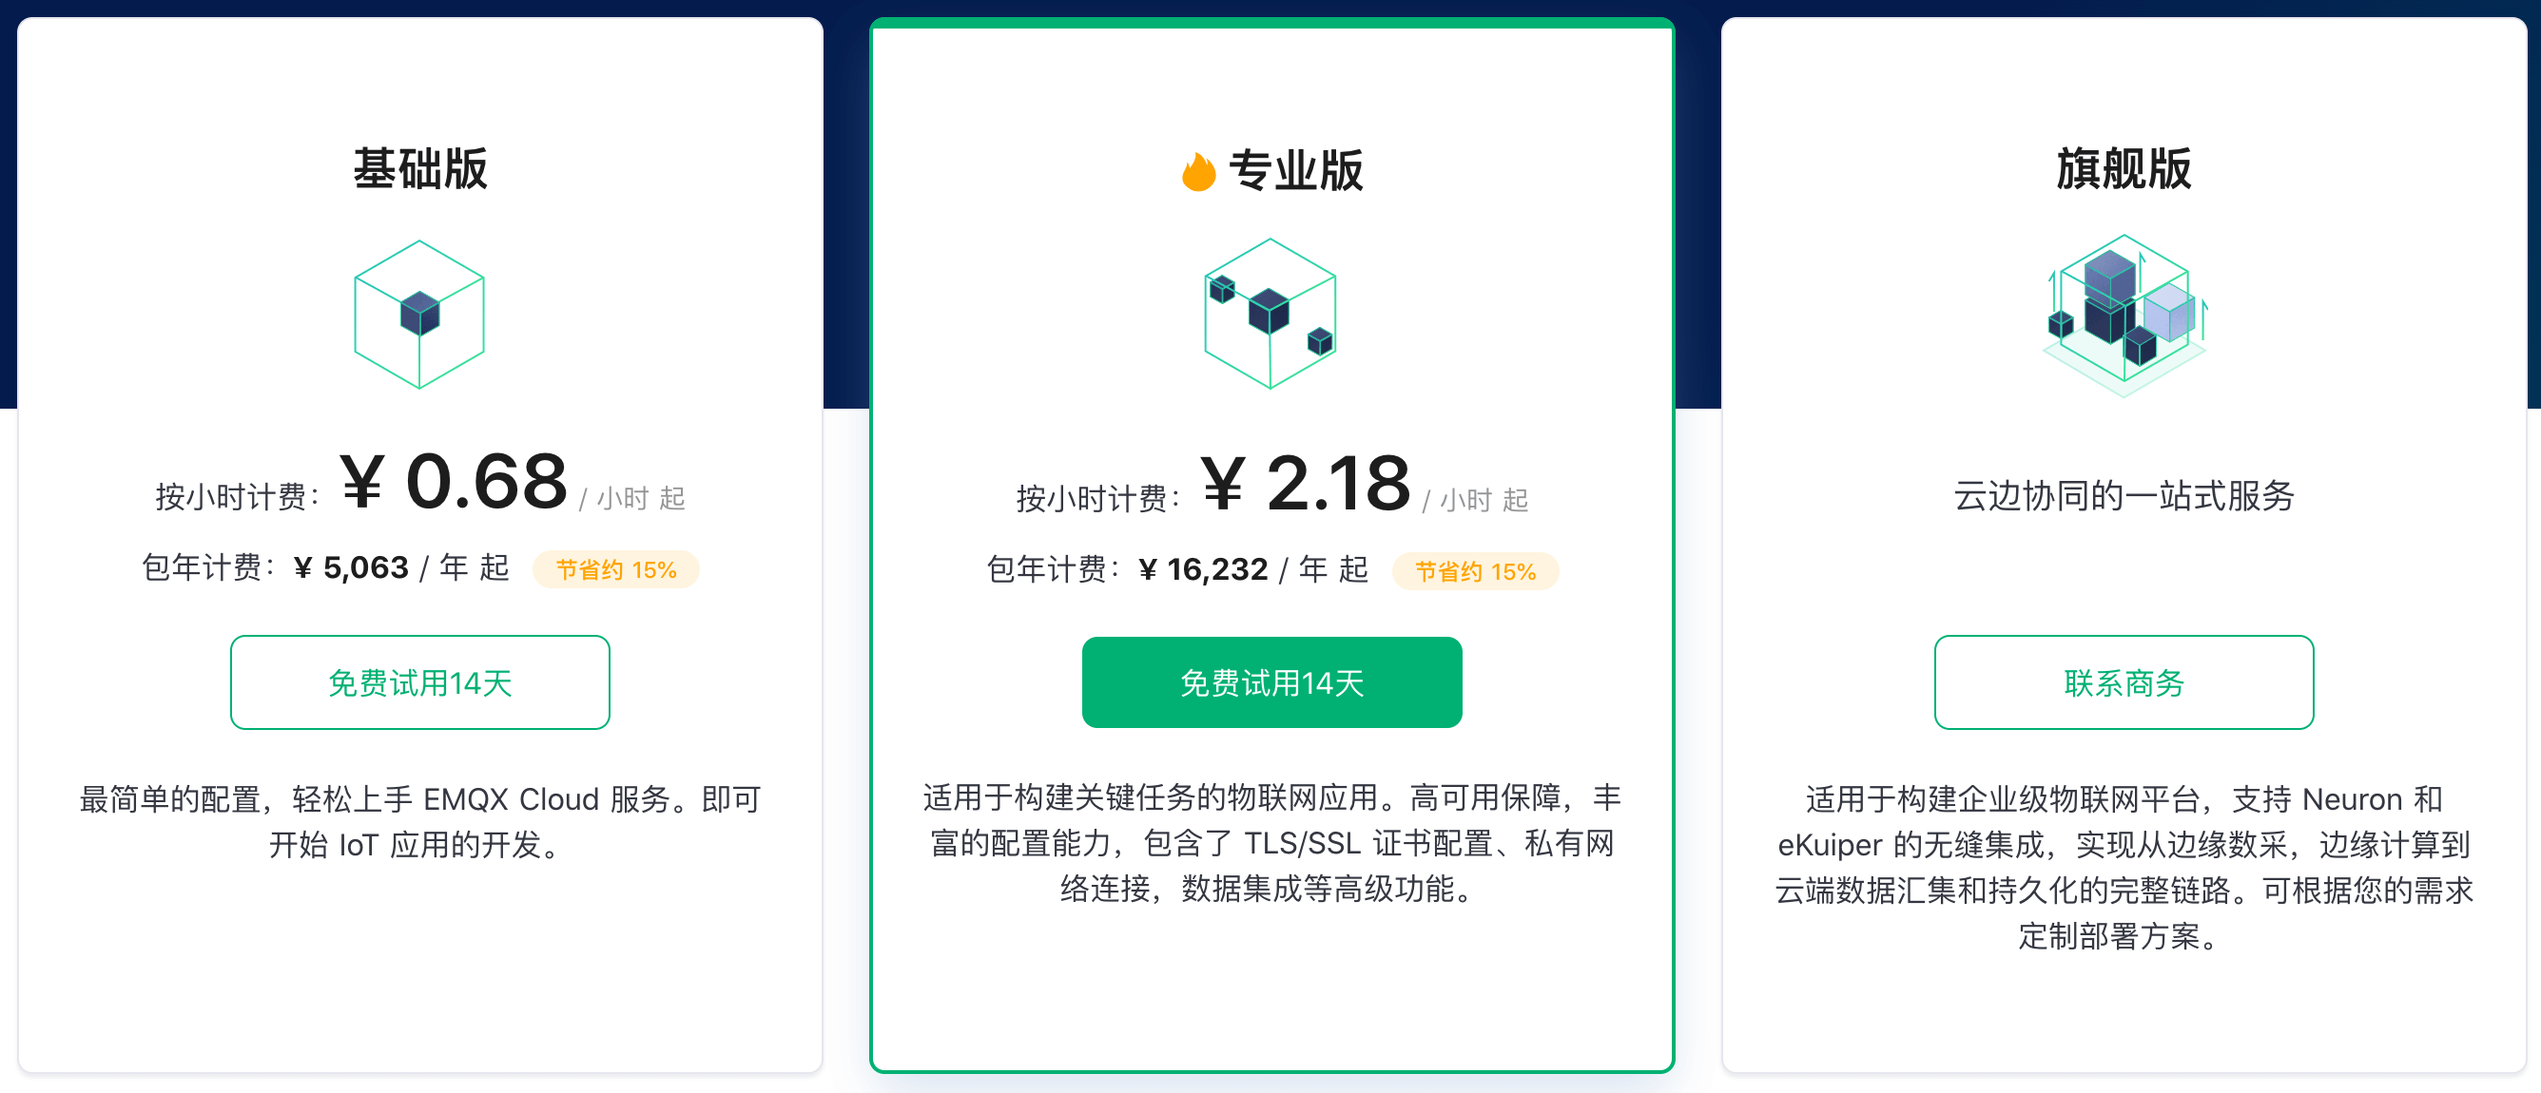
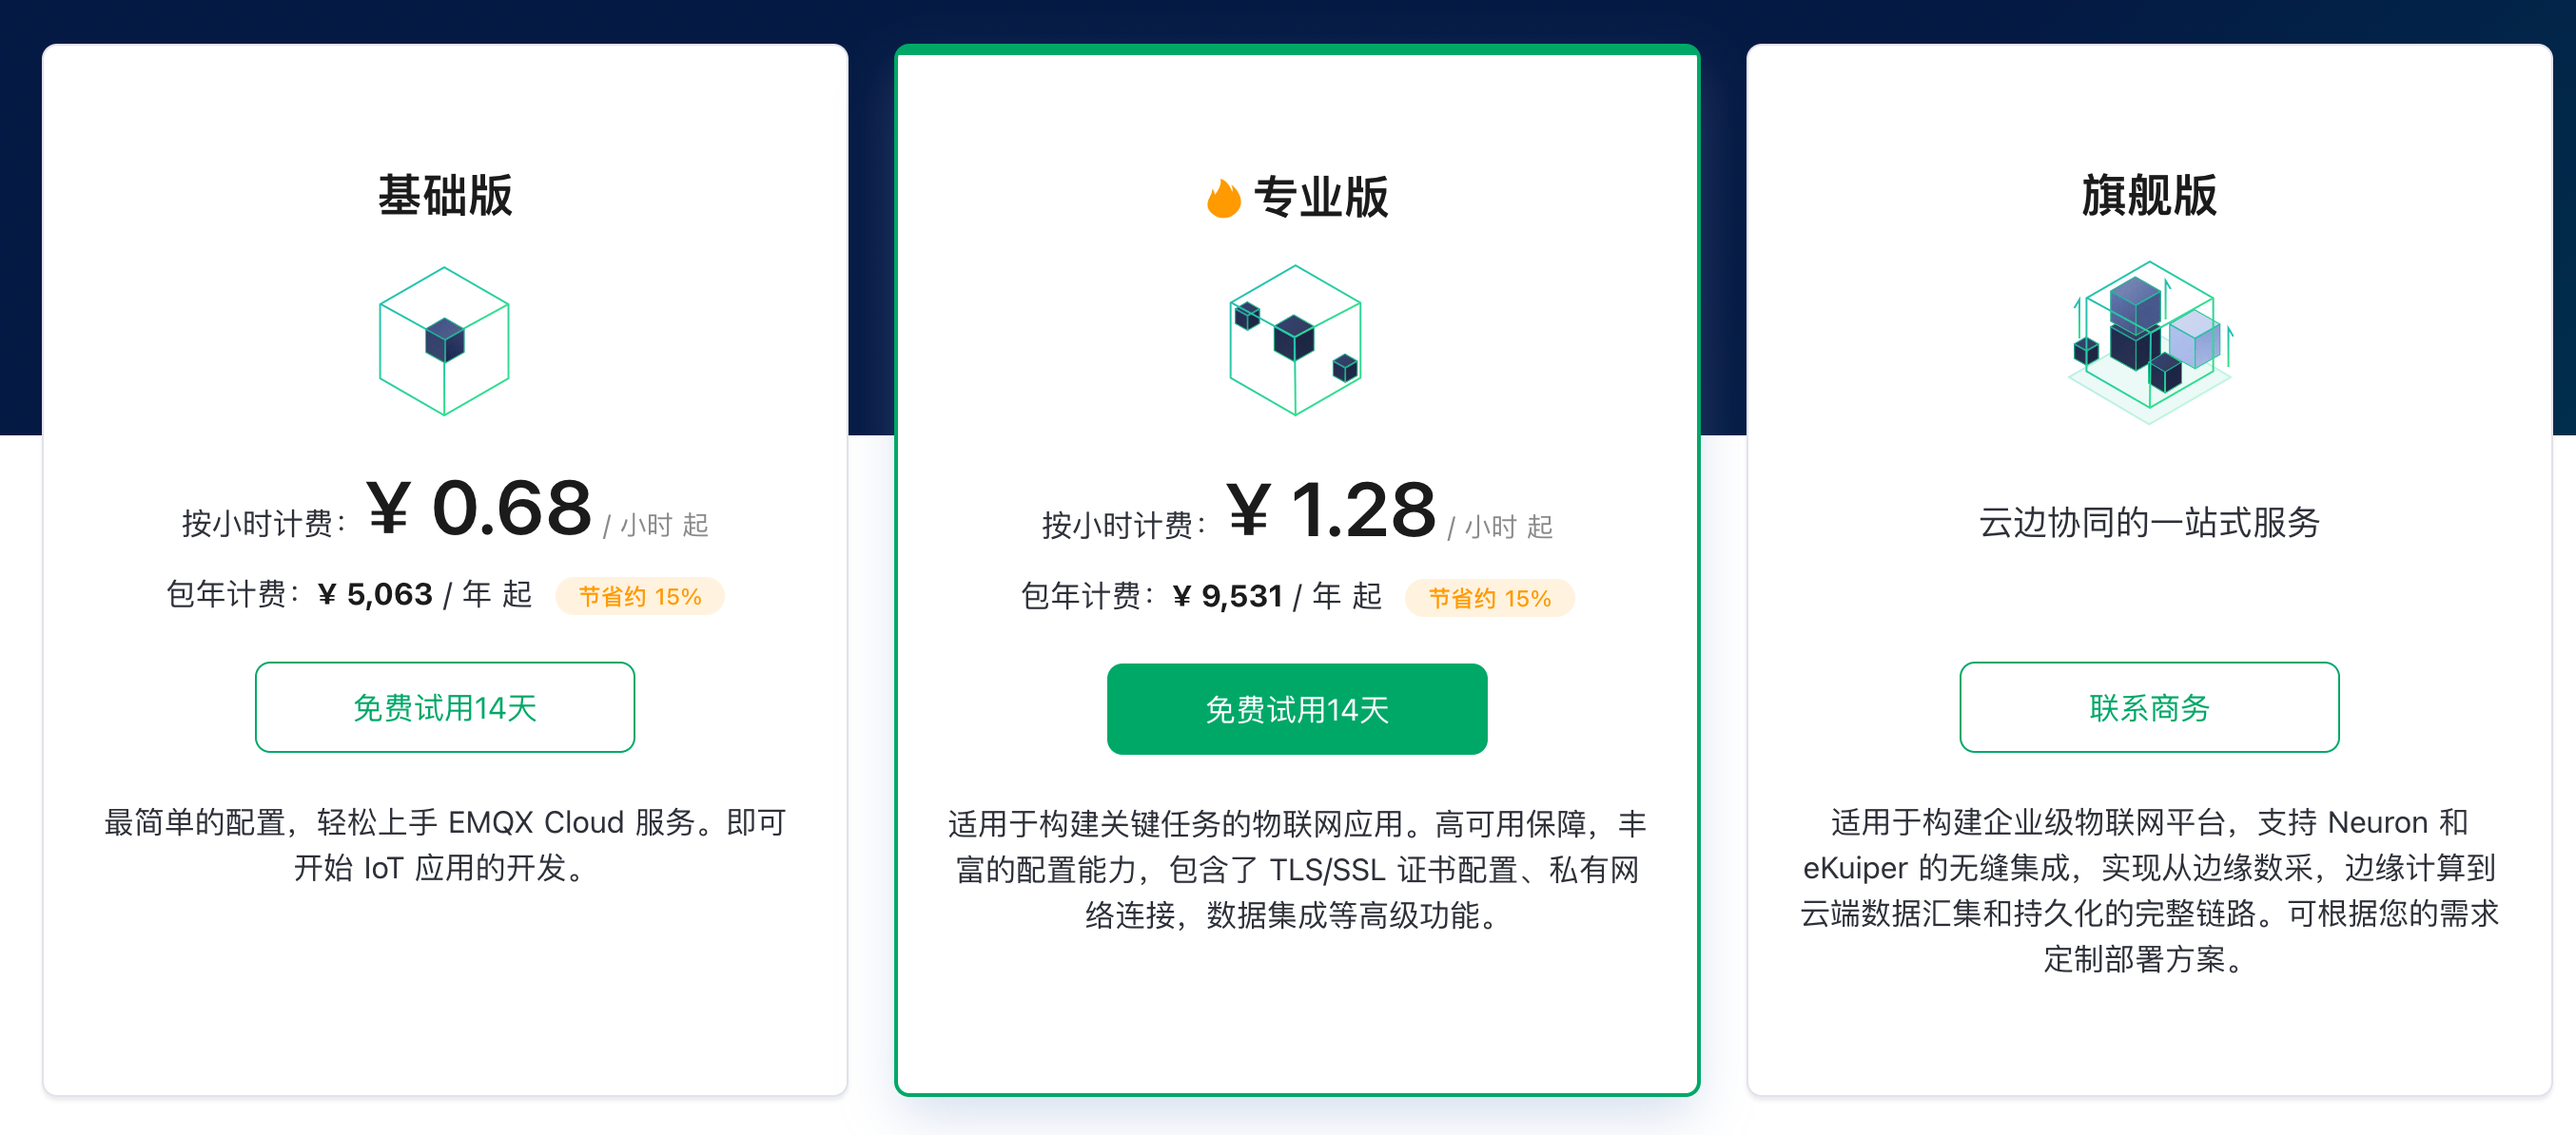
fix(docs): price picture

diff --git a/en_US/price/pricing.md b/en_US/price/pricing.md
@@ -41,14 +41,10 @@ EMQX Cloud is available in three plans: Standard, Professional, and Premium.
       <td>from $ 0.88/hr </td>
    </tr>
    <tr>
-      <td rowspan="5">Professional</td>
-      <td>1,000 connections / Up to 1,000 TPS</td>
-      <td>from $ 0.36/hr </td>
-      <td rowspan="3">100G/month</td>
-   </tr>
-   <tr>
+      <td rowspan="4">Professional</td>
       <td>5,000 connections / Up to 10,000 TPS</td>
       <td>from $ 0.99/hr </td>
+      <td rowspan="2">100G/month</td>
    </tr>
    <tr>
       <td>10,000 connections / Up to 20,000 TPS</td>

diff --git a/en_US/quick_start/create_free_trial.md b/en_US/quick_start/create_free_trial.md
@@ -6,7 +6,7 @@ For first-time EMQX Cloud customers, we have an opportunity for you to create a 
 
   > To extend your free trial, you can submit a [ticket](../feature/tickets.md) or contact us by email to get in touch with us.
 
-- **Specification：** 1000 client connections for the standard plan and 1000 client connections for the professional plan.
+- **Specification：** 1000 client connections for the standard plan and 5000 client connections for the professional plan.
 
 - **Traffic：** 100 GB free traffic per month.
 
